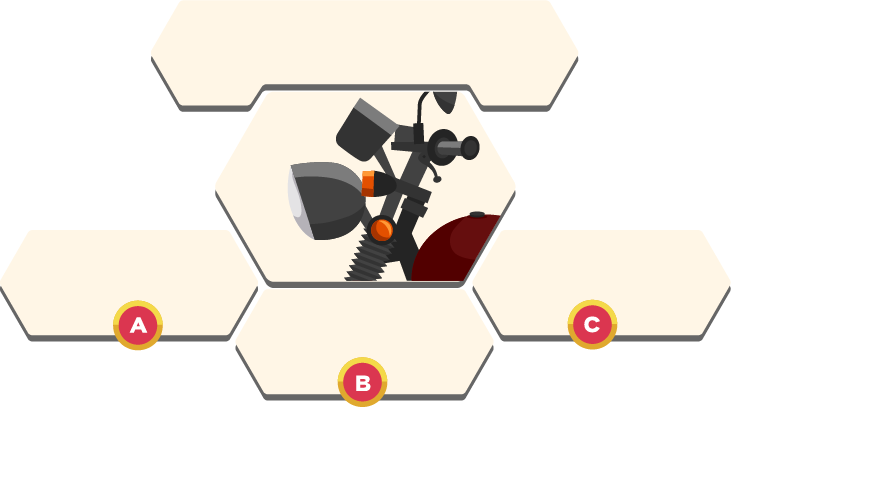
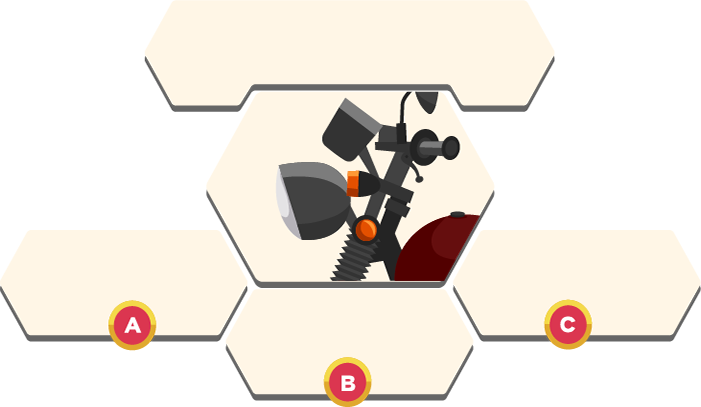
05/06/2018

diff --git a/assets/nivel8/minitest/css/estJuego.css b/assets/nivel8/minitest/css/estJuego.css
@@ -205,7 +205,7 @@
 #pregunta1_1,#pregunta1_2,#pregunta1_3,#pregunta1_4{
     position: absolute;
     width: 100%;
-    height: 100vh;
+    height: 100%;
     top: 0px;
     left: 0px;
     display: none;   
@@ -213,7 +213,7 @@
 #pregunta2_1,#pregunta2_2,#pregunta2_3,#pregunta2_4{
     position: absolute;
     width: 100%;
-    height: 100vh;
+    height: 100%;
     top: 0px;
     left: 0px;
     display: none;   
@@ -221,7 +221,7 @@
 #pregunta3_1,#pregunta3_2,#pregunta3_3,#pregunta3_4{
     position: absolute;
     width: 100%;
-    height: 100vh;
+    height: 100%;
     top: 0px;
     left: 0px;
     display: none;   
@@ -229,7 +229,7 @@
 #pregunta4_1,#pregunta4_2,#pregunta4_3,#pregunta4_4{
     position: absolute;
     width: 100%;
-    height: 100vh;
+    height: 100%;
     top: 0px;
     left: 0px;
     display: none;   
@@ -237,7 +237,7 @@
 #pregunta5_1,#pregunta5_2,#pregunta5_3,#pregunta5_4{
     position: absolute;
     width: 100%;
-    height: 100vh;
+    height: 100%;
     top: 0px;
     left: 0px;
     display: none;   
@@ -362,8 +362,8 @@
 }
 .btn {
     position: absolute;
-    width: 345px;
-    height: 80px;
+    width: 250px;
+    height: 90px;
     font-family: "Catalogo";
     font-size: 18px;
     line-height: 70px;
@@ -377,7 +377,6 @@
     opacity: 1;
 }
 #gPreg_1 .btn {
-    width: 250px;
     line-height: 85px;
 }
 #btn_1_1 {
@@ -385,8 +384,8 @@
     top: 435px;
 }
 #btn_1_2 {
-    left: 770px;
-    top: 430px;
+    left: 775px;
+    top: 435px;
 }
 #btn_1_3 {
     left: 545px;
@@ -397,7 +396,7 @@
     top: 435px;
 }
 #btn_2_2 {
-    left: 770px;
+    left: 775px;
     top: 435px;
 }
 #btn_2_3 {
@@ -409,7 +408,7 @@
     top: 435px;
 }
 #btn_3_2 {
-    left: 770px;
+    left: 775px;
     top: 435px;
 }
 #btn_3_3 {
@@ -421,7 +420,7 @@
     top: 435px;
 }
 #btn_4_2 {
-    left: 770px;
+    left: 775px;
     top: 435px;
 }
 #btn_4_3 {
@@ -429,54 +428,53 @@
     top: 490px;
 }
 #btn_5_1 {
-    left: 190px;
-    top: 325px;
+        left: 320px;
+    top: 435px;
 }
 #btn_5_2 {
-    left: 860px;
-    top: 325px;
+    left: 775px;
+    top: 435px;
 }
 #btn_5_3 {
-    left: 525px;
-    top: 600px;
+    left: 545px;
+    top: 490px;
 }
 #btn_6_1 {
-    left: 190px;
-    top: 325px;
+    left: 320px;
+    top: 435px;
 }
 #btn_6_2 {
-    left: 860px;
-    top: 325px;
+    left: 775px;
+    top: 435px;
 }
 #btn_6_3 {
-    left: 525px;
-    top: 600px;
+    left: 545px;
+    top: 490px;
 }
 #gPreg_7 .btn {}
 #btn_7_1 {
-    left: 190px;
-    top: 320px;
+    left: 320px;
+    top: 435px;
 }
 #btn_7_2 {
-    left: 860px;
-    top: 320px;
+    left: 775px;
+    top: 435px;
 }
 #btn_7_3 {
-    left: 525px;
-    top: 600px;
-    font-size: 16px;
+    left: 545px;
+    top: 490px;
 }
 #btn_8_1 {
-    left: 190px;
-    top: 325px;
+    left: 320px;
+    top: 435px;
 }
 #btn_8_2 {
-    left: 860px;
-    top: 325px;
+    left: 775px;
+    top: 435px;
 }
 #btn_8_3 {
-    left: 525px;
-    top: 600px;
+    left: 545px;
+    top: 490px;
 }
 .btn span {
     display: inline-block;

diff --git a/assets/nivel8/minitest/js/inicio.js b/assets/nivel8/minitest/js/inicio.js
@@ -81,7 +81,7 @@ var $J = {
     numJ: 0,
     intentos: 2,
     //para el control de tiempo
-    CTInicial: 30,
+    CTInicial: 60,
     CTiempo: 0,
     CMin: 0,
     CSeg: 0
@@ -203,7 +203,9 @@ function initBotones() {
         $sigpregunta =0;
         $('#driver_1').css("background-image", "url("+odir+"/images/driver_1.png)");
         $('#driver_2').css("background-image", "url("+odir+"/images/driver_2.png)"); 
-        $('#driver_5').css("background-image", "url("+odir+"/images/driver_5.png)");       
+        $('#driver_5').css("background-image", "url("+odir+"/images/driver_5.png)"); 
+        $(this).css("pointer-events"," none");
+        $('.btn').removeAttr('style')    
     });
     
     $('.btn').click(function () {
@@ -246,14 +248,14 @@ function initBotones() {
         
         
         
-        if($sigpregunta == 4){
+        if($sigpregunta == 3){
         
         setTimeout(function(){ $('.btn_pass').animateCss('bounceIn').show(); }, 500);
         }
     });
 
     $('.btn_pass').click(function() {
-        $J.CTiempo = 30,
+        $J.CTiempo = 60,
         $sigpregunta = 0;
          var id_p = parseInt($(this).attr('id').split('_')[1], 10);
         $('.btn_pass').css("pointer-events"," none");

diff --git a/assets/nivel8/main/js/inicio.js b/assets/nivel8/main/js/inicio.js
@@ -29,7 +29,7 @@ $.post(bdir + 'ajax/init_curso_driver').done(function (data) {
         //alert( "puntaje " + data);
         console.log("data:" + data);
         $intentos_juego = data;    
-        if(data == 110 || data == 121){
+        if(data == 110 || data == 121 || data == 120){
             $('#i3btn_4').addClass('disable');
             console.log("1");
         }else if(data == 122){            

diff --git a/application/views/nivel8/minitest.php b/application/views/nivel8/minitest.php
@@ -46,7 +46,7 @@
                     <div class="moto">
                         <img id="punto_1" class="punt_anim" src="<?php echo base_url($own_dir . '/images/punt_rojo.png'); ?>" alt=""/>
                         <img id="punto_2" class="punt_anim" src="<?php echo base_url($own_dir . '/images/punt_rojo.png'); ?>" alt=""/>
-                        <img id="punto_3" class="punt_anim" src="<?php echo base_url($own_dir . '/images/punt_rojo.png'); ?>" alt=""/>
+                        <!-- <img id="punto_3" class="punt_anim" src="<?php echo base_url($own_dir . '/images/punt_rojo.png'); ?>" alt=""/> -->
                         <img id="punto_4" class="punt_anim" src="<?php echo base_url($own_dir . '/images/punt_rojo.png'); ?>" alt=""/>
                     </div>
                     <div class="preguntas">
@@ -63,10 +63,10 @@
                         <div id="pregunta1_2">
                             <div id="p_fondo1_1" class="p_fondo"><img src="<?php echo base_url($own_dir . '/images/pregs/p_r3.png'); ?>" alt=""/>    
                             </div>
-                            <div id="tPreg1_2" class="tPreg"><span>Si un cliente sufre el hurto de su cartera por un tercero</span></div>
-                            <div id="btn_2_1" class="btn" data-rspt="0"><span>a) Le explicas que debe poner su denuncia en la Comisaría más</span></div>
-                            <div id="btn_2_2" class="btn" data-rspt="0"><span>b) Le dices que no puedes, pero le permites tomar fotos como muestra de empatía.</span></div>
-                            <div id="btn_2_3" class="btn" data-rspt="0"><span>c) Le dices que sí puedes, y que se lo harás</span></div>
+                            <div id="tPreg1_2" class="tPreg"><span>Es la llanta trasera de la moto ¿Que deberia hacer?</span></div>
+                            <div id="btn_2_1" class="btn" data-rspt="0"><span>Nada en particular</span></div>
+                            <div id="btn_2_2" class="btn" data-rspt="0"><span>Todo esta ok</span></div>
+                            <div id="btn_2_3" class="btn" data-rspt="0"><span>Esta normal</span></div>
                         </div>
 
                         <div id="pregunta1_3">
@@ -81,10 +81,10 @@
                         <div id="pregunta1_4">
                             <div id="p_fondo1_1" class="p_fondo"><img src="<?php echo base_url($own_dir . '/images/pregs/p_r1.png'); ?>" alt=""/>  
                             </div>
-                            <div id="tPreg_4" class="tPreg"><span>Si un cliente sufre el hurto de su cartera por un tercero</span></div>
-                            <div id="btn_4_1" class="btn" data-rspt="0"><span>a) Le explicas que debe poner su denuncia en la Comisaría más</span></div>
-                            <div id="btn_4_2" class="btn" data-rspt="0"><span>b) Le dices que no puedes, pero le permites</span></div>
-                            <div id="btn_4_3" class="btn" data-rspt="0"><span>c) Le dices que sí puedes, y que se lo harás </span></div>                            
+                            <div id="tPreg_4" class="tPreg"><span>Es la luz delantera de la moto ¿Que deberia hacer?</span></div>
+                            <div id="btn_4_1" class="btn" data-rspt="0"><span>Nada en particular</span></div>
+                            <div id="btn_4_2" class="btn" data-rspt="0"><span>Todo esta ok</span></div>
+                            <div id="btn_4_3" class="btn" data-rspt="0"><span>Esta normal</span></div>                            
                         </div>
                     </div>
                     <div id="btnpass_1" class="btn_pass"><img src="<?php echo base_url($own_dir . '/images/btn_pass.png'); ?>" alt=""/></div>                    
@@ -95,7 +95,7 @@
                     <div class="moto">
                         <img id="punto2_1" class="punt_anim" src="<?php echo base_url($own_dir . '/images/punt_rojo.png'); ?>" alt=""/>
                         <img id="punto2_2" class="punt_anim" src="<?php echo base_url($own_dir . '/images/punt_rojo.png'); ?>" alt=""/>
-                        <img id="punto2_3" class="punt_anim" src="<?php echo base_url($own_dir . '/images/punt_rojo.png'); ?>" alt=""/>
+                        <!-- <img id="punto2_3" class="punt_anim" src="<?php echo base_url($own_dir . '/images/punt_rojo.png'); ?>" alt=""/> -->
                         <img id="punto2_4" class="punt_anim" src="<?php echo base_url($own_dir . '/images/punt_rojo.png'); ?>" alt=""/>
                     </div>
                     <div class="preguntas">
@@ -112,10 +112,10 @@
                         <div id="pregunta2_2">
                             <div id="p_fondo2_2" class="p_fondo"><img src="<?php echo base_url($own_dir . '/images/pregs/p_r4.png'); ?>" alt=""/>
                             </div>
-                            <div id="tPreg1_2" class="tPreg"><span>Si un cliente sufre el hurto de su cartera por un tercero</span></div>
-                            <div id="btn_2_1" class="btn" data-rspt="0"><span>a) Le explicas que debe poner su denuncia en la Comisaría más</span></div>
-                            <div id="btn_2_2" class="btn" data-rspt="0"><span>b) Le dices que no puedes, pero le permites</span></div>
-                            <div id="btn_2_3" class="btn" data-rspt="0"><span>c) Le dices que sí puedes, y que se lo harás</span></div>
+                            <div id="tPreg1_2" class="tPreg"><span>Usa el calzado correcto ¿Que deberia hacer?</span></div>
+                            <div id="btn_2_1" class="btn" data-rspt="0"><span>Nada en particular</span></div>
+                            <div id="btn_2_2" class="btn" data-rspt="0"><span>Todo esta ok</span></div>
+                            <div id="btn_2_3" class="btn" data-rspt="0"><span>Esta normal</span></div>
                         </div>
 
                         <div id="pregunta2_3">
@@ -130,10 +130,10 @@
                         <div id="pregunta2_4">
                             <div id="p_fondo2_4" class="p_fondo"><img src="<?php echo base_url($own_dir . '/images/pregs/p_r5.png'); ?>" alt=""/>
                             </div>
-                            <div id="tPreg_4" class="tPreg"><span>Si un cliente sufre el hurto de su cartera por un tercero</span></div>
-                            <div id="btn_4_1" class="btn" data-rspt="0"><span>a) Le explicas que debe poner su denuncia en la Comisaría más</span></div>
-                            <div id="btn_4_2" class="btn" data-rspt="0"><span>b) Le dices que no puedes, pero le permites</span></div>
-                            <div id="btn_4_3" class="btn" data-rspt="0"><span>c) Le dices que sí puedes, y que se lo harás</span></div>                            
+                            <div id="tPreg_4" class="tPreg"><span>Las luz trasera  y direccionales funcionan ¿Que deberia hacer?</span></div>
+                            <div id="btn_4_1" class="btn" data-rspt="0"><span>Nada en particular</span></div>
+                            <div id="btn_4_2" class="btn" data-rspt="0"><span>Todo esta ok</span></div>
+                            <div id="btn_4_3" class="btn" data-rspt="0"><span>Esta normal</span></div>                            
                         </div>
                     </div>
                     <div id="btnpass_2" class="btn_pass"><img src="<?php echo base_url($own_dir . '/images/btn_pass.png'); ?>" alt=""/></div>                    
@@ -161,10 +161,10 @@
                         <div id="pregunta3_2">
                            <div id="p_fondo3_2" class="p_fondo"><img src="<?php echo base_url($own_dir . '/images/pregs/p_r6.png'); ?>" alt=""/>
                             </div>
-                            <div id="tPreg1_2" class="tPreg"><span>Si un cliente sufre el hurto de su cartera por un tercero</span></div>
-                            <div id="btn_2_1" class="btn" data-rspt="0"><span>a) Le explicas que debe poner su denuncia en la Comisaría más</span></div>
-                            <div id="btn_2_2" class="btn" data-rspt="0"><span>b) Le dices que no puedes, pero le permites</span></div>
-                            <div id="btn_2_3" class="btn" data-rspt="0"><span>c) Le dices que sí puedes, y que se lo harás</span></div>
+                            <div id="tPreg1_2" class="tPreg"><span>Tiene el casco adecuado ¿Que deberia hacer?</span></div>
+                            <div id="btn_2_1" class="btn" data-rspt="0"><span>Nada en particular</span></div>
+                            <div id="btn_2_2" class="btn" data-rspt="0"><span>Todo esta ok</span></div>
+                            <div id="btn_2_3" class="btn" data-rspt="0"><span>Esta normal</span></div>
                         </div>
 
                         <div id="pregunta3_3">
@@ -179,10 +179,10 @@
                         <div id="pregunta3_4">
                             <div id="p_fondo3_4" class="p_fondo"><img src="<?php echo base_url($own_dir . '/images/pregs/p_r8.png'); ?>" alt=""/>
                             </div>
-                            <div id="tPreg_4" class="tPreg"><span>Si un cliente sufre el hurto de su cartera por un tercero</span></div>
-                            <div id="btn_4_1" class="btn" data-rspt="0"><span>a) Le explicas que debe poner su denuncia en la Comisaría más</span></div>
-                            <div id="btn_4_2" class="btn" data-rspt="0"><span>b) Le dices que no puedes, pero le permites</span></div>
-                            <div id="btn_4_3" class="btn" data-rspt="0"><span>c) Le dices que sí puedes, y que se lo harás </span></div>                            
+                            <div id="tPreg_4" class="tPreg"><span>El motor esta completo y funcionando ¿Que deberia hacer?</span></div>
+                            <div id="btn_4_1" class="btn" data-rspt="0"><span>Nada en particular</span></div>
+                            <div id="btn_4_2" class="btn" data-rspt="0"><span>Todo esta ok</span></div>
+                            <div id="btn_4_3" class="btn" data-rspt="0"><span>Esta normal</span></div>                            
                         </div>
                     </div>
                     <div id="btnpass_3" class="btn_pass"><img src="<?php echo base_url($own_dir . '/images/btn_pass.png'); ?>" alt=""/></div>                    
@@ -193,7 +193,7 @@
                     <div class="moto">
                         <img id="punto4_1" class="punt_anim" src="<?php echo base_url($own_dir . '/images/punt_rojo.png'); ?>" alt=""/>
                         <img id="punto4_2" class="punt_anim" src="<?php echo base_url($own_dir . '/images/punt_rojo.png'); ?>" alt=""/>
-                        <img id="punto4_3" class="punt_anim" src="<?php echo base_url($own_dir . '/images/punt_rojo.png'); ?>" alt=""/>
+                        <!-- <img id="punto4_3" class="punt_anim" src="<?php echo base_url($own_dir . '/images/punt_rojo.png'); ?>" alt=""/> -->
                         <img id="punto4_4" class="punt_anim" src="<?php echo base_url($own_dir . '/images/punt_rojo.png'); ?>" alt=""/>
                     </div>
                     <div class="preguntas">
@@ -242,7 +242,7 @@
                     <div class="moto">
                         <img id="punto5_1" class="punt_anim" src="<?php echo base_url($own_dir . '/images/punt_rojo.png'); ?>" alt=""/>
                         <img id="punto5_2" class="punt_anim" src="<?php echo base_url($own_dir . '/images/punt_rojo.png'); ?>" alt=""/>
-                        <img id="punto5_3" class="punt_anim" src="<?php echo base_url($own_dir . '/images/punt_rojo.png'); ?>" alt=""/>
+                        <!-- <img id="punto5_3" class="punt_anim" src="<?php echo base_url($own_dir . '/images/punt_rojo.png'); ?>" alt=""/> -->
                         <img id="punto5_4" class="punt_anim" src="<?php echo base_url($own_dir . '/images/punt_rojo.png'); ?>" alt=""/>
                     </div>
                     <div class="preguntas">

diff --git a/application/controllers/drivers.php b/application/controllers/drivers.php
@@ -21,28 +21,28 @@ class Drivers extends Nivel_Controller {
         $this->data['own_dir'] = $this->data['assets_dir'] . '/nivel' . $this->cur . '/main';
         $resul = $this->base_model->get_puntaje($this->session->user_id, $this->cur);
         
-        if ($resul && $resul->puntaje !== null && $resul->intentos == 110){
+        if ($resul && $resul->puntaje == null && $resul->intentos == 100 || $resul->puntaje !== null){
+            $this->session->position = 1;
+            $this->session->win = 1;            
+        }else if ($resul && $resul->puntaje == null && $resul->intentos == 121 || $resul->puntaje !== null){
             $this->session->position = 1;
             $this->session->win = 3;            
-        }else if ($resul && $resul->puntaje !== null && $resul->intentos == 121){
+        }else if ($resul && $resul->puntaje == null && $resul->intentos == 120 || $resul->puntaje !== null){
             $this->session->position = 1;
             $this->session->win = 3;            
-        }else if ($resul && $resul->puntaje !== null && $resul->intentos == 120){
-            $this->session->position = 1;
-            $this->session->win = 3;            
-        }else if ($resul && $resul->puntaje !== null && $resul->intentos == 111){
+        }else if ($resul && $resul->puntaje == null && $resul->intentos == 111 || $resul->puntaje !== null){
             $this->session->position = 1;
             $this->session->win = 1;
-        }else if ($resul && $resul->puntaje !== null && $resul->intentos == 100){
+        }else if ($resul && $resul->puntaje == null && $resul->intentos == 110 || $resul->puntaje !== null){
+            $this->session->position = 1;
+            $this->session->win = 3;
+        }else if ($resul && $resul->puntaje == null && $resul->intentos == 112 || $resul->puntaje !== null){
             $this->session->position = 1;
             $this->session->win = 1;
-        }else if ($resul && $resul->puntaje !== null && $resul->intentos == 112){
-            $this->session->position = 1;
-            $this->session->win = 1;
-        }else{
+        }else{            
             $this->session->position = 2;
             $this->session->win = 2;            
-        }        
+        }    
         $this->data['checked'] = $this->base_model->check_curso_user($this->session->user_id, $this->cur);
         $this->load->view('nivel' . $this->cur . '/index', $this->data);
     }
